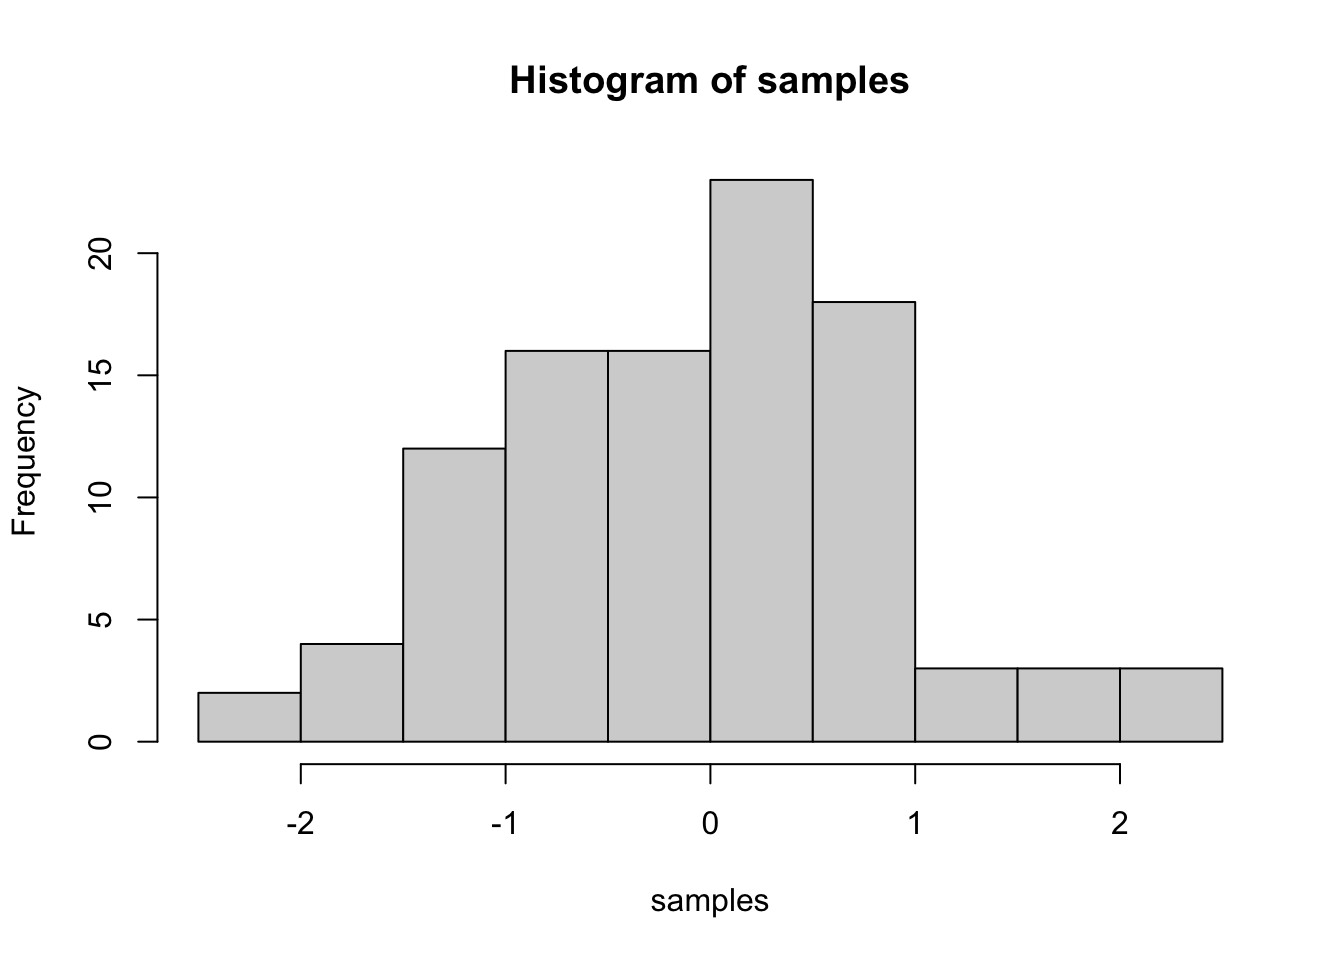
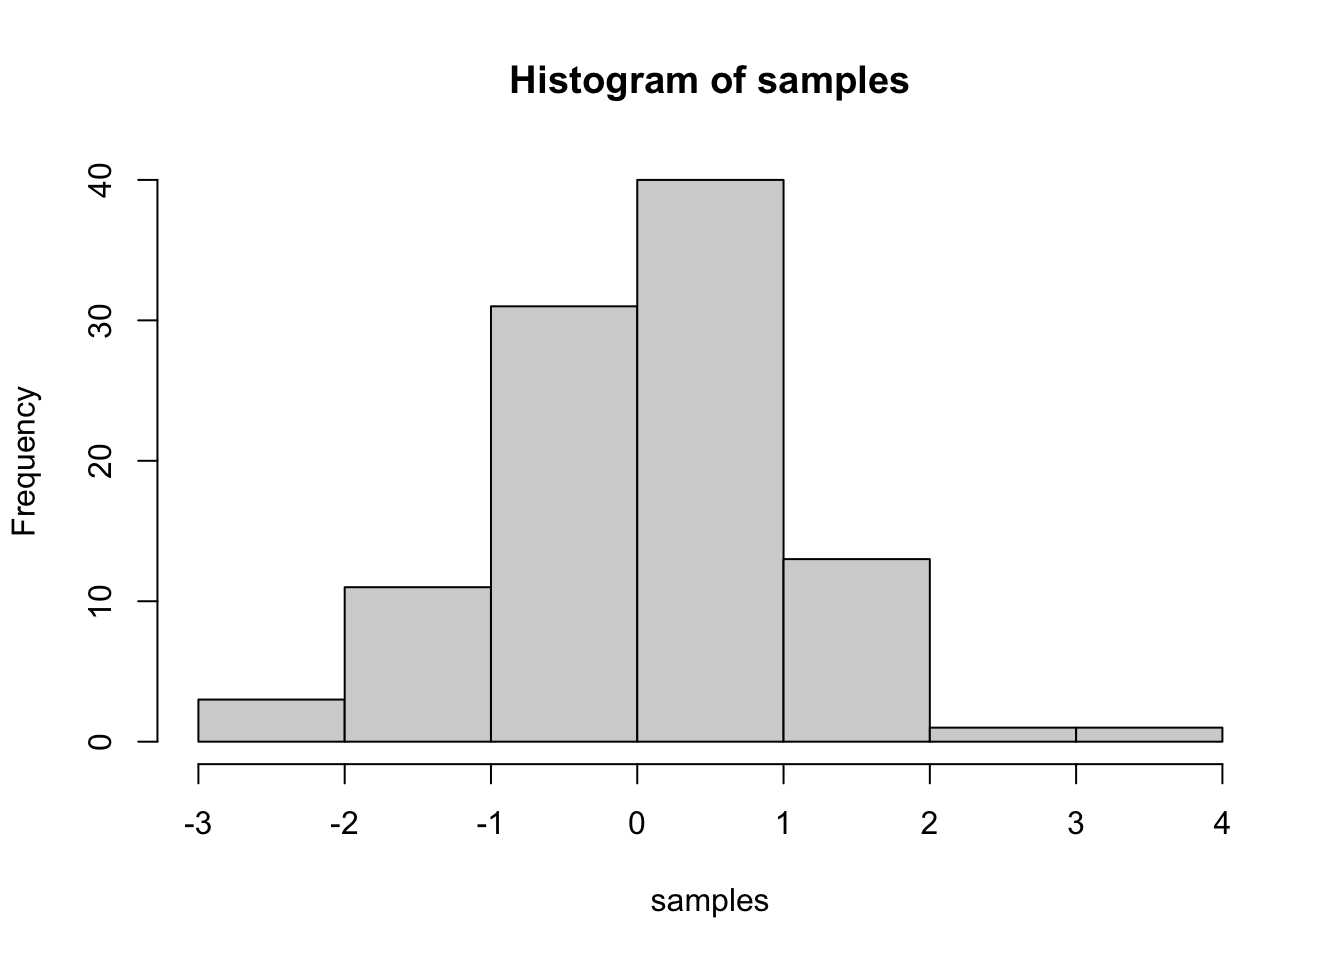
Initial Setup

diff --git a/docs/journal.html b/docs/journal.html
@@ -9,9 +9,11 @@
 <meta http-equiv="X-UA-Compatible" content="IE=EDGE" />
 
 
+<meta name="author" content="Jose Pedro Kitajima Borges" />
 
+<meta name="date" content="2020-11-05" />
 
-<title>Data Wrangling</title>
+<title>Journal (reproducible report)</title>
 
 <script src="site_libs/jquery-1.11.3/jquery.min.js"></script>
 <meta name="viewport" content="width=device-width, initial-scale=1" />
@@ -19,6 +21,9 @@
 <script src="site_libs/bootstrap-3.3.5/js/bootstrap.min.js"></script>
 <script src="site_libs/bootstrap-3.3.5/shim/html5shiv.min.js"></script>
 <script src="site_libs/bootstrap-3.3.5/shim/respond.min.js"></script>
+<script src="site_libs/jqueryui-1.11.4/jquery-ui.min.js"></script>
+<link href="site_libs/tocify-1.9.1/jquery.tocify.css" rel="stylesheet" />
+<script src="site_libs/tocify-1.9.1/jquery.tocify.js"></script>
 <script src="site_libs/navigation-1.1/tabsets.js"></script>
 <link href="site_libs/highlightjs-9.12.0/default.css" rel="stylesheet" />
 <script src="site_libs/highlightjs-9.12.0/highlight.js"></script>
@@ -260,6 +265,69 @@ $(document).ready(function () {
 
 
 
+<style type="text/css">
+
+#TOC {
+  margin: 25px 0px 20px 0px;
+}
+@media (max-width: 768px) {
+#TOC {
+  position: relative;
+  width: 100%;
+}
+}
+
+@media print {
+.toc-content {
+  /* see https://github.com/w3c/csswg-drafts/issues/4434 */
+  float: right;
+}
+}
+
+.toc-content {
+  padding-left: 30px;
+  padding-right: 40px;
+}
+
+div.main-container {
+  max-width: 1200px;
+}
+
+div.tocify {
+  width: 20%;
+  max-width: 260px;
+  max-height: 85%;
+}
+
+@media (min-width: 768px) and (max-width: 991px) {
+  div.tocify {
+    width: 25%;
+  }
+}
+
+@media (max-width: 767px) {
+  div.tocify {
+    width: 100%;
+    max-width: none;
+  }
+}
+
+.tocify ul, .tocify li {
+  line-height: 20px;
+}
+
+.tocify-subheader .tocify-item {
+  font-size: 0.90em;
+}
+
+.tocify .list-group-item {
+  border-radius: 0px;
+}
+
+
+</style>
+
+
 
 </head>
 
@@ -267,6 +335,16 @@ $(document).ready(function () {
 
 
 <div class="container-fluid main-container">
+
+
+<!-- setup 3col/9col grid for toc_float and main content  -->
+<div class="row-fluid">
+<div class="col-xs-12 col-sm-4 col-md-3">
+<div id="TOC" class="tocify">
+</div>
+</div>
+
+<div class="toc-content col-xs-12 col-sm-8 col-md-9">
 
 
 
@@ -325,78 +403,47 @@ $(document).ready(function () {
 
 
 
-<h1 class="title toc-ignore">Data Wrangling</h1>
-<h4 class="date">Nov 5, 2020</h4>
+<h1 class="title toc-ignore">Journal (reproducible report)</h1>
+<h4 class="author">Jose Pedro Kitajima Borges</h4>
+<h4 class="date">2020-11-05</h4>
 
 </div>
 
 
-<div id="example" class="section level1">
-<h1>Example</h1>
-<p>To explore the basic data manipulation verbs of the package <code>dplyr</code>, we’ll use the datasets <code>mtcars</code> (comes with RStudio). The data was extracted from the 1974 Motor Trend US magazine, and comprises fuel consumption and 10 aspects of automobile design and performance for 32 automobiles (1973–74 models). The data is documented in <code>?mtcars</code>.</p>
-<p>The following code chunks will only print something, if you’ve installed the package <code>dplyr</code>. That is why everything is wrapped in a <code>if</code> condition.</p>
-<p>To do so, run:</p>
-<pre class="r"><code>install.packages(&quot;dplyr&quot;)</code></pre>
-<pre class="r"><code>if (&quot;dplyr&quot; %in% rownames(installed.packages())) {
-
-  # Load libraries
-  library(dplyr)
-  
-  # Print the dataframe
-  mtcars
-
-}</code></pre>
-<pre><code>##                      mpg cyl  disp  hp drat    wt  qsec vs am gear carb
-## Mazda RX4           21.0   6 160.0 110 3.90 2.620 16.46  0  1    4    4
-## Mazda RX4 Wag       21.0   6 160.0 110 3.90 2.875 17.02  0  1    4    4
-## Datsun 710          22.8   4 108.0  93 3.85 2.320 18.61  1  1    4    1
-## Hornet 4 Drive      21.4   6 258.0 110 3.08 3.215 19.44  1  0    3    1
-## Hornet Sportabout   18.7   8 360.0 175 3.15 3.440 17.02  0  0    3    2
-## Valiant             18.1   6 225.0 105 2.76 3.460 20.22  1  0    3    1
-## Duster 360          14.3   8 360.0 245 3.21 3.570 15.84  0  0    3    4
-## Merc 240D           24.4   4 146.7  62 3.69 3.190 20.00  1  0    4    2
-## Merc 230            22.8   4 140.8  95 3.92 3.150 22.90  1  0    4    2
-## Merc 280            19.2   6 167.6 123 3.92 3.440 18.30  1  0    4    4
-## Merc 280C           17.8   6 167.6 123 3.92 3.440 18.90  1  0    4    4
-## Merc 450SE          16.4   8 275.8 180 3.07 4.070 17.40  0  0    3    3
-## Merc 450SL          17.3   8 275.8 180 3.07 3.730 17.60  0  0    3    3
-## Merc 450SLC         15.2   8 275.8 180 3.07 3.780 18.00  0  0    3    3
-## Cadillac Fleetwood  10.4   8 472.0 205 2.93 5.250 17.98  0  0    3    4
-## Lincoln Continental 10.4   8 460.0 215 3.00 5.424 17.82  0  0    3    4
-## Chrysler Imperial   14.7   8 440.0 230 3.23 5.345 17.42  0  0    3    4
-## Fiat 128            32.4   4  78.7  66 4.08 2.200 19.47  1  1    4    1
-## Honda Civic         30.4   4  75.7  52 4.93 1.615 18.52  1  1    4    2
-## Toyota Corolla      33.9   4  71.1  65 4.22 1.835 19.90  1  1    4    1
-## Toyota Corona       21.5   4 120.1  97 3.70 2.465 20.01  1  0    3    1
-## Dodge Challenger    15.5   8 318.0 150 2.76 3.520 16.87  0  0    3    2
-## AMC Javelin         15.2   8 304.0 150 3.15 3.435 17.30  0  0    3    2
-## Camaro Z28          13.3   8 350.0 245 3.73 3.840 15.41  0  0    3    4
-## Pontiac Firebird    19.2   8 400.0 175 3.08 3.845 17.05  0  0    3    2
-## Fiat X1-9           27.3   4  79.0  66 4.08 1.935 18.90  1  1    4    1
-## Porsche 914-2       26.0   4 120.3  91 4.43 2.140 16.70  0  1    5    2
-## Lotus Europa        30.4   4  95.1 113 3.77 1.513 16.90  1  1    5    2
-## Ford Pantera L      15.8   8 351.0 264 4.22 3.170 14.50  0  1    5    4
-## Ferrari Dino        19.7   6 145.0 175 3.62 2.770 15.50  0  1    5    6
-## Maserati Bora       15.0   8 301.0 335 3.54 3.570 14.60  0  1    5    8
-## Volvo 142E          21.4   4 121.0 109 4.11 2.780 18.60  1  1    4    2</code></pre>
-<p><code>filter()</code> allows you to subset observations based on their values. The first argument is the name of the data frame. The second and subsequent arguments are the expressions that filter the data frame. For example, we can select all cars with 4 cylinders and more than 90 horsepower:</p>
-<pre class="r"><code>if (&quot;dplyr&quot; %in% rownames(installed.packages())) {
-
-  filter(mtcars, cyl == 4, hp &gt; 90)
-  
-}  </code></pre>
-<pre><code>##                mpg cyl  disp  hp drat    wt  qsec vs am gear carb
-## Datsun 710    22.8   4 108.0  93 3.85 2.320 18.61  1  1    4    1
-## Merc 230      22.8   4 140.8  95 3.92 3.150 22.90  1  0    4    2
-## Toyota Corona 21.5   4 120.1  97 3.70 2.465 20.01  1  0    3    1
-## Porsche 914-2 26.0   4 120.3  91 4.43 2.140 16.70  0  1    5    2
-## Lotus Europa  30.4   4  95.1 113 3.77 1.513 16.90  1  1    5    2
-## Volvo 142E    21.4   4 121.0 109 4.11 2.780 18.60  1  1    4    2</code></pre>
-<p>…</p>
+<p><strong>IMPORTANT:</strong> You can delete everything in here and start fresh. You might want to start by not deleting anything above this line until you know what that stuff is doing.</p>
+<p>This is an <code>.Rmd</code> file. It is plain text with special features. Any time you write just like this, it will be compiled to normal text in the website. If you put a # in front of your text, it will create a top level-header.</p>
+<div id="my-first-post" class="section level1">
+<h1><span class="header-section-number">1</span> My first post</h1>
+<p>Last compiled: 2020-11-24</p>
+<p>Notice that whatever you define as a top level header, automatically gets put into the table of contents bar on the left.</p>
+<div id="second-level-header" class="section level2">
+<h2><span class="header-section-number">1.1</span> Second level header</h2>
+<p>You can add more headers by adding more hashtags. These won’t be put into the table of contents</p>
+<div id="third-level-header" class="section level3">
+<h3><span class="header-section-number">1.1.1</span> third level header</h3>
+<p>Here’s an even lower level header</p>
+</div>
+</div>
+</div>
+<div id="my-second-post-note-the-order" class="section level1">
+<h1><span class="header-section-number">2</span> My second post (note the order)</h1>
+<p>Last compiled: 2020-11-24</p>
+<p>I’m writing this tutorial going from the top down. And, this is how it will be printed. So, notice the second post is second in the list. If you want your most recent post to be at the top, then make a new post starting at the top. If you want the oldest first, do, then keep adding to the bottom</p>
+</div>
+<div id="adding-r-stuff" class="section level1">
+<h1><span class="header-section-number">3</span> Adding R stuff</h1>
+<p>So far this is just a blog where you can write in plain text and serve your writing to a webpage. One of the main purposes of this lab journal is to record your progress learning R. The reason I am asking you to use this process is because you can both make a website, and a lab journal, and learn R all in R-studio. This makes everything really convenient and in the same place.</p>
+<p>So, let’s say you are learning how to make a histogram in R. For example, maybe you want to sample 100 numbers from a normal distribution with mean = 0, and standard deviation = 1, and then you want to plot a histogram. You can do this right here by using an r code block, like this:</p>
+<pre class="r"><code>samples &lt;- rnorm(100, mean=0, sd=1)
+hist(samples)</code></pre>
+<p><img src="journal_files/figure-html/unnamed-chunk-1-1.png" width="672" /></p>
+<p>When you knit this R Markdown document, you will see that the histogram is printed to the page, along with the R code. This document can be set up to hide the R code in the webpage, just delete the comment (hashtag) from the cold folding option in the yaml header up top. For purposes of letting yourself see the code, and me see the code, best to keep it the way that it is. You’ll learn that all of these things and more can be customized in each R code block.</p>
 </div>
 
 
 
+</div>
+</div>
 
 </div>
 
@@ -429,6 +476,32 @@ $(document).ready(function () {
 
 <!-- code folding -->
 
+<script>
+$(document).ready(function ()  {
+
+    // move toc-ignore selectors from section div to header
+    $('div.section.toc-ignore')
+        .removeClass('toc-ignore')
+        .children('h1,h2,h3,h4,h5').addClass('toc-ignore');
+
+    // establish options
+    var options = {
+      selectors: "h1,h2,h3",
+      theme: "bootstrap3",
+      context: '.toc-content',
+      hashGenerator: function (text) {
+        return text.replace(/[.\\/?&!#<>]/g, '').replace(/\s/g, '_');
+      },
+      ignoreSelector: ".toc-ignore",
+      scrollTo: 0
+    };
+    options.showAndHide = true;
+    options.smoothScroll = true;
+
+    // tocify
+    var toc = $("#TOC").tocify(options).data("toc-tocify");
+});
+</script>
 
 <!-- dynamically load mathjax for compatibility with self-contained -->
 <script>

diff --git a/docs/dictionary.html b/docs/dictionary.html
@@ -11,7 +11,7 @@
 
 <meta name="author" content="Joschka Schwarz" />
 
-<meta name="date" content="2020-11-17" />
+<meta name="date" content="2020-11-24" />
 
 <title>Dictionary</title>
 
@@ -417,7 +417,7 @@ div.tocify {
 
 <h1 class="title toc-ignore">Dictionary</h1>
 <h4 class="author">Joschka Schwarz</h4>
-<h4 class="date">2020-11-17</h4>
+<h4 class="date">2020-11-24</h4>
 
 </div>
 
@@ -439,10 +439,14 @@ div.tocify {
 <li><code>list.files()</code> This function lists all the names of each file in a given R project.</li>
 </ol>
 <pre class="r"><code>list.files()</code></pre>
-<pre><code>##  [1] &quot;_site.yml&quot;                 &quot;build_website.R&quot;           &quot;data_wrangling.html&quot;       &quot;data_wrangling.Rmd&quot;       
-##  [5] &quot;dictionary.Rmd&quot;            &quot;docs&quot;                      &quot;ggplot_graphs.Rmd&quot;         &quot;images&quot;                   
-##  [9] &quot;index.Rmd&quot;                 &quot;journal_files&quot;             &quot;journal.Rmd&quot;               &quot;lab_journal_website.Rproj&quot;
-## [13] &quot;links.Rmd&quot;                 &quot;machine_learning.Rmd&quot;      &quot;README.md&quot;                 &quot;site_libs&quot;                
+<pre><code>##  [1] &quot;_site.yml&quot;                 &quot;build_website.R&quot;          
+##  [3] &quot;data_wrangling.html&quot;       &quot;data_wrangling.Rmd&quot;       
+##  [5] &quot;dictionary.Rmd&quot;            &quot;docs&quot;                     
+##  [7] &quot;ggplot_graphs.Rmd&quot;         &quot;images&quot;                   
+##  [9] &quot;index.Rmd&quot;                 &quot;journal_files&quot;            
+## [11] &quot;journal.Rmd&quot;               &quot;lab_journal_website.Rproj&quot;
+## [13] &quot;links.Rmd&quot;                 &quot;machine_learning.Rmd&quot;     
+## [15] &quot;README.md&quot;                 &quot;site_libs&quot;                
 ## [17] &quot;style.css&quot;                 &quot;testfile.rds&quot;</code></pre>
 <p>…</p>
 <hr />

diff --git a/docs/ggplot_graphs.html b/docs/ggplot_graphs.html
@@ -346,6 +346,20 @@ $(document).ready(function () {
   mpg
   
   }</code></pre>
+<pre><code>## # A tibble: 234 x 11
+##    manufacturer model    displ  year   cyl trans   drv     cty   hwy fl    class
+##    &lt;chr&gt;        &lt;chr&gt;    &lt;dbl&gt; &lt;int&gt; &lt;int&gt; &lt;chr&gt;   &lt;chr&gt; &lt;int&gt; &lt;int&gt; &lt;chr&gt; &lt;chr&gt;
+##  1 audi         a4         1.8  1999     4 auto(l… f        18    29 p     comp…
+##  2 audi         a4         1.8  1999     4 manual… f        21    29 p     comp…
+##  3 audi         a4         2    2008     4 manual… f        20    31 p     comp…
+##  4 audi         a4         2    2008     4 auto(a… f        21    30 p     comp…
+##  5 audi         a4         2.8  1999     6 auto(l… f        16    26 p     comp…
+##  6 audi         a4         2.8  1999     6 manual… f        18    26 p     comp…
+##  7 audi         a4         3.1  2008     6 auto(a… f        18    27 p     comp…
+##  8 audi         a4 quat…   1.8  1999     4 manual… 4        18    26 p     comp…
+##  9 audi         a4 quat…   1.8  1999     4 auto(l… 4        16    25 p     comp…
+## 10 audi         a4 quat…   2    2008     4 manual… 4        20    28 p     comp…
+## # … with 224 more rows</code></pre>
 <pre class="r"><code>if (&quot;ggplot2&quot; %in% rownames(installed.packages())) {
   
 ggplot(data = mpg, mapping = aes(x = displ, y = hwy)) + 
@@ -353,6 +367,8 @@ ggplot(data = mpg, mapping = aes(x = displ, y = hwy)) +
   geom_smooth()
   
 }</code></pre>
+<pre><code>## `geom_smooth()` using method = &#39;loess&#39; and formula &#39;y ~ x&#39;</code></pre>
+<p><img src="ggplot_graphs_files/figure-html/unnamed-chunk-3-1.png" width="672" /></p>
 <p>…</p>
 
 
